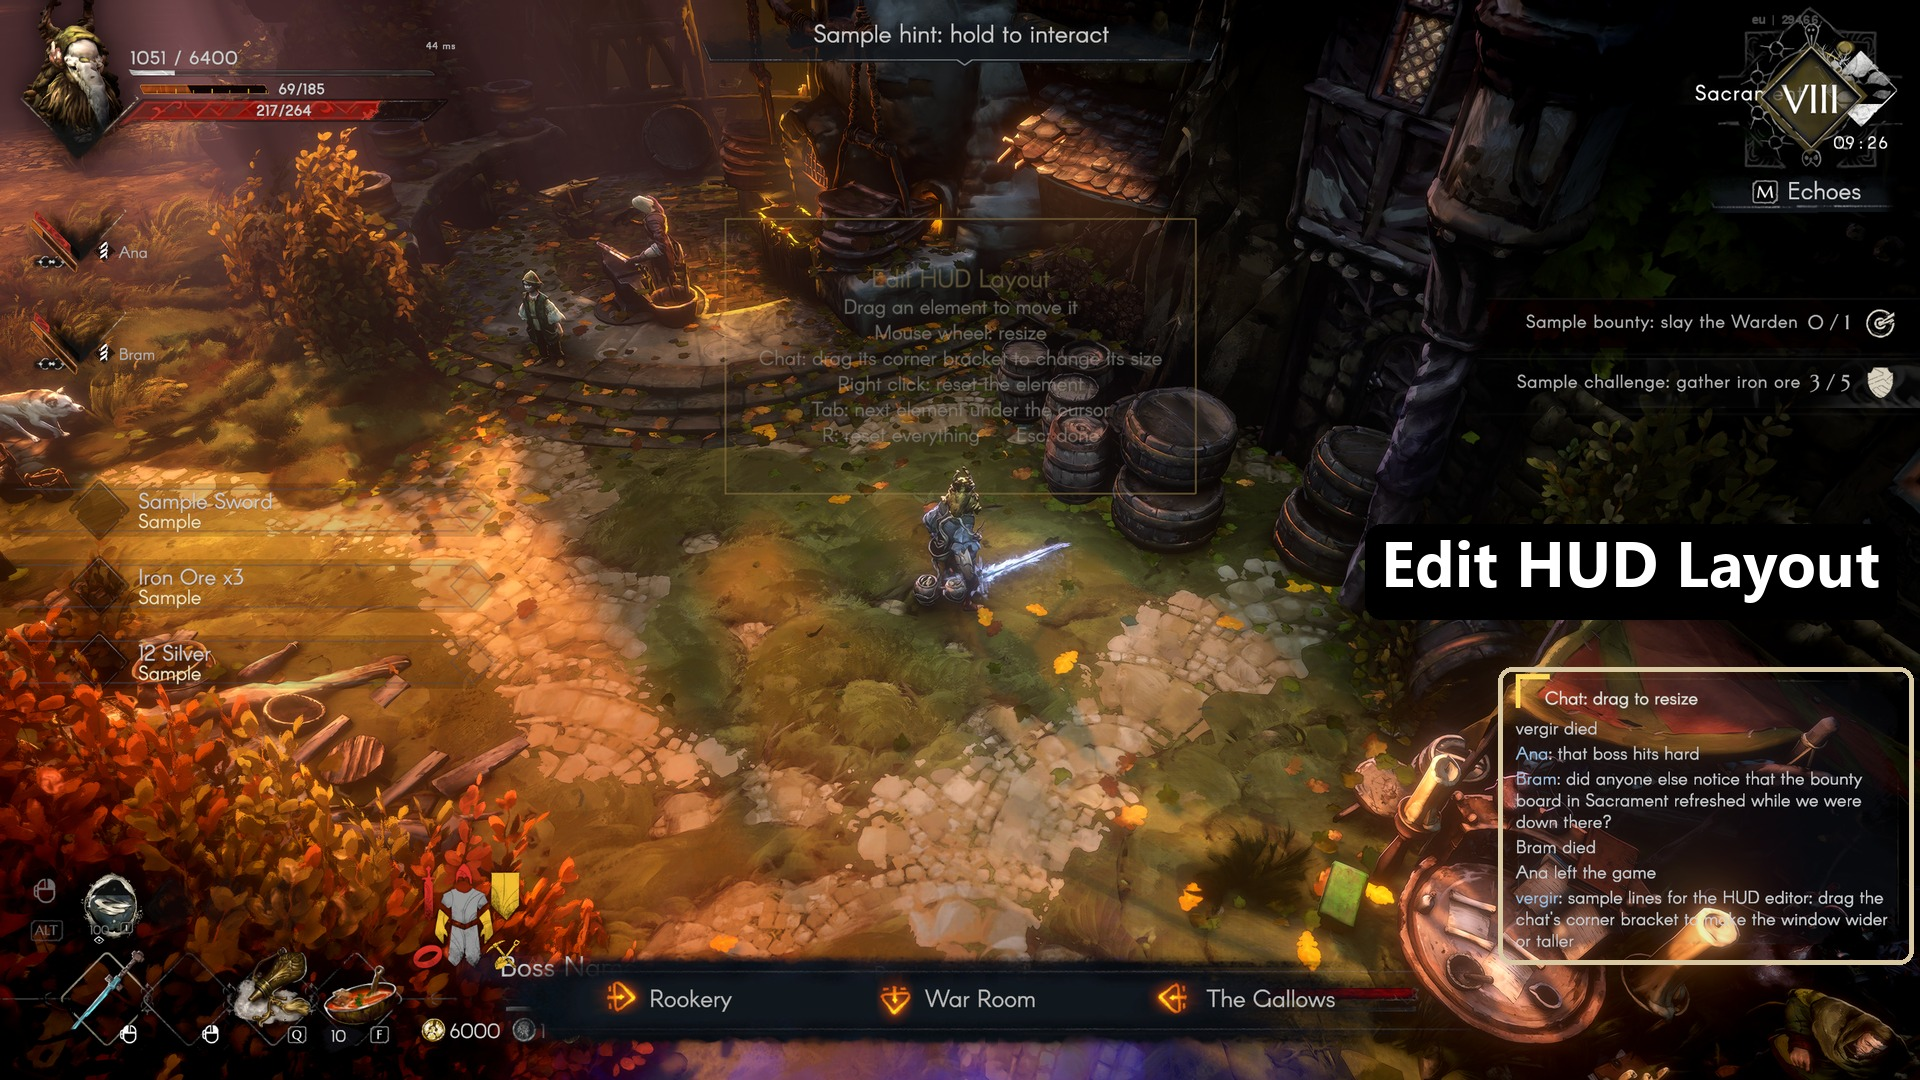
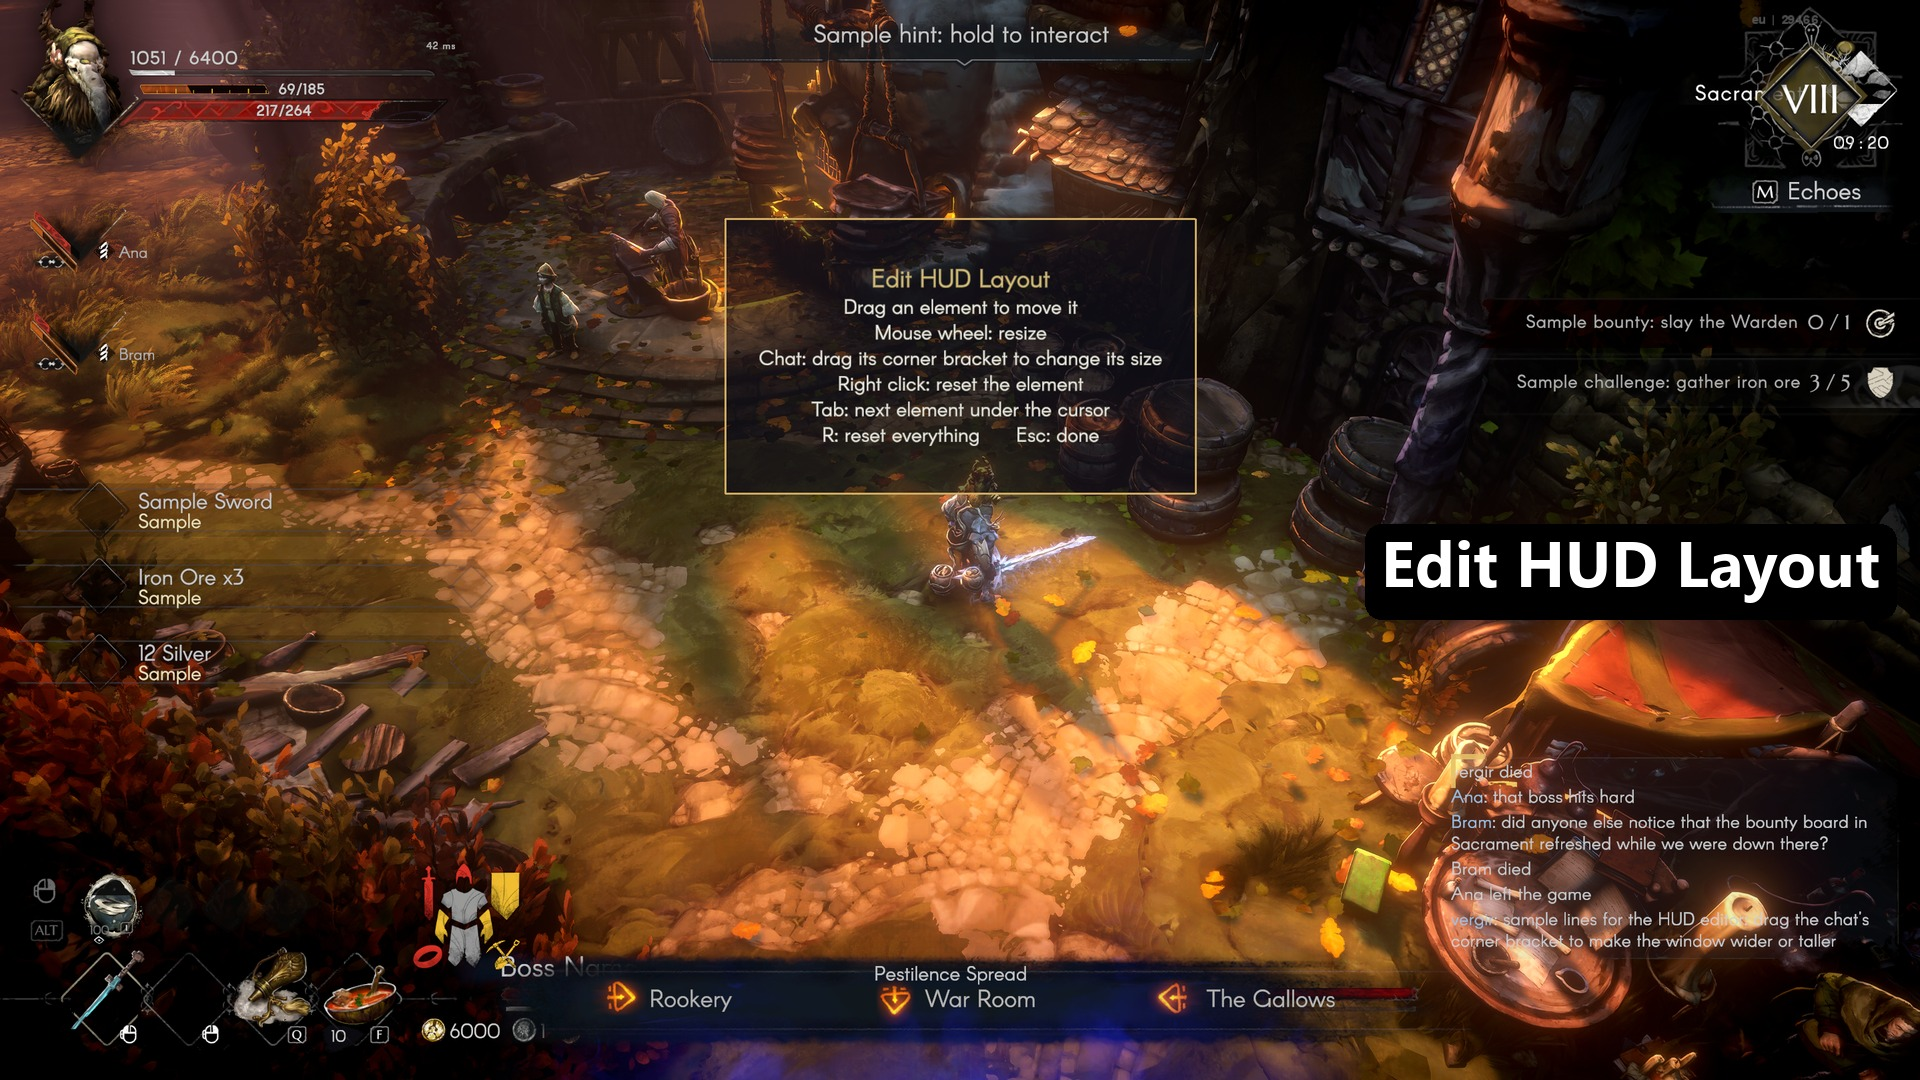
Nexus images: editor panel first, chat resize crop, custom layout in play

diff --git a/docs/pics/make_nexus_images.py b/docs/pics/make_nexus_images.py
@@ -28,6 +28,7 @@ SHOTS = {
     "sq_mod": ("Screenshot 2026-10-05 173419.png", (0, 0, 2878, 2505)),          # 9:8, UI Area 1.00
     "editor_panel": ("Screenshot 2026-10-05 173512.png", (0, 470, 2878, 2090)),  # 16:9, instructions readable
     "editor": ("Screenshot 2026-10-05 173534.png", (0, 470, 2878, 2090)),        # 16:9, mid-drag on the chat bracket
+    "layout_play": ("mpv-shot0001.jpg", (0, 470, 2880, 2090)),                   # 16:9 video frame, moved HUD in a fight
     "preview_area": ("Screenshot 2026-10-05 174630.png", (0, 470, 2878, 2090)),  # UI Area row, outline at 1.50
     "preview_hud": ("Screenshot 2026-10-05 174655.png", (0, 470, 2878, 2090)),   # HUD size row, HUD copy at 50%
     "settings": ("Screenshot 2026-10-05 175027.png", (0, 169, 2878, 1789)),      # 16:9, with the heading row
@@ -148,12 +149,21 @@ def full_frame(key, out, caption, boxes=(), cap_xy=(40, H - 40), anchor="ld"):
     save(img, out)
 
 
+def chat_resize():
+    """A 1280x720 window of the editor shot around the chat window being resized (raw frame pixels), shown 1:1."""
+    l, t = 1598, 900
+    img = shot("editor").crop((l, t, l + 1280, t + 720)).convert("RGBA")
+    box(img, (2245 - l, 1000 - t, 2868 - l, 1445 - t), 720 / 1080)
+    label(img, "Chat: drag the corner to resize", (30, 30), 48)
+    save(img, "4_chat_resize.jpg")
+
+
 def settings():
     """The rows with the heading and the description panel, cropped (raw frame pixels)."""
     im = shot("settings").crop((60, 200, 2560, 1580))
     img = im.convert("RGBA")
     label(img, "Options > Display", (img.width - 40, img.height - 40), 72, anchor="rd")
-    save(img, "7_settings.jpg")
+    save(img, "8_settings.jpg")
 
 
 def thumbs(img):
@@ -167,13 +177,13 @@ def thumbs(img):
 if __name__ == "__main__":
     tile = main_image()
     ultrawide()
-    # The chat window mid-resize: its bracket, the sample lines and the instructions panel behind.
-    full_frame("editor", "3_editor.jpg", "Edit HUD Layout", boxes=[(2245, 1000, 2868, 1445)], cap_xy=(W - 40, 560),
-               anchor="rm")
-    full_frame("editor_panel", "4_editor_panel.jpg", "Sample content", cap_xy=(W - 40, 560),
-               anchor="rm")
-    full_frame("preview_area", "5_preview_area.jpg", "Live preview: UI Area 1.50", cap_xy=(W - 40, H - 40), anchor="rd")
-    full_frame("preview_hud", "6_preview_hud.jpg", "Live preview: HUD size 50%", cap_xy=(W - 40, H - 40), anchor="rd")
+    full_frame("editor_panel", "3_editor.jpg", "Edit HUD Layout", cap_xy=(W - 40, 560), anchor="rm")
+    chat_resize()
+    # Health moved to the bottom centre, equipment to the bottom right.
+    full_frame("layout_play", "5_layout_play.jpg", "Custom HUD layout", cap_xy=(40, 40), anchor="la",
+               boxes=[(1070, 1345, 1715, 1600), (2200, 1295, 2862, 1585)])
+    full_frame("preview_area", "6_preview_area.jpg", "Live preview: UI Area 1.50", cap_xy=(W - 40, H - 40), anchor="rd")
+    full_frame("preview_hud", "7_preview_hud.jpg", "Live preview: HUD size 50%", cap_xy=(W - 40, H - 40), anchor="rd")
     settings()
     if "--thumbs" in sys.argv:
         thumbs(tile)
